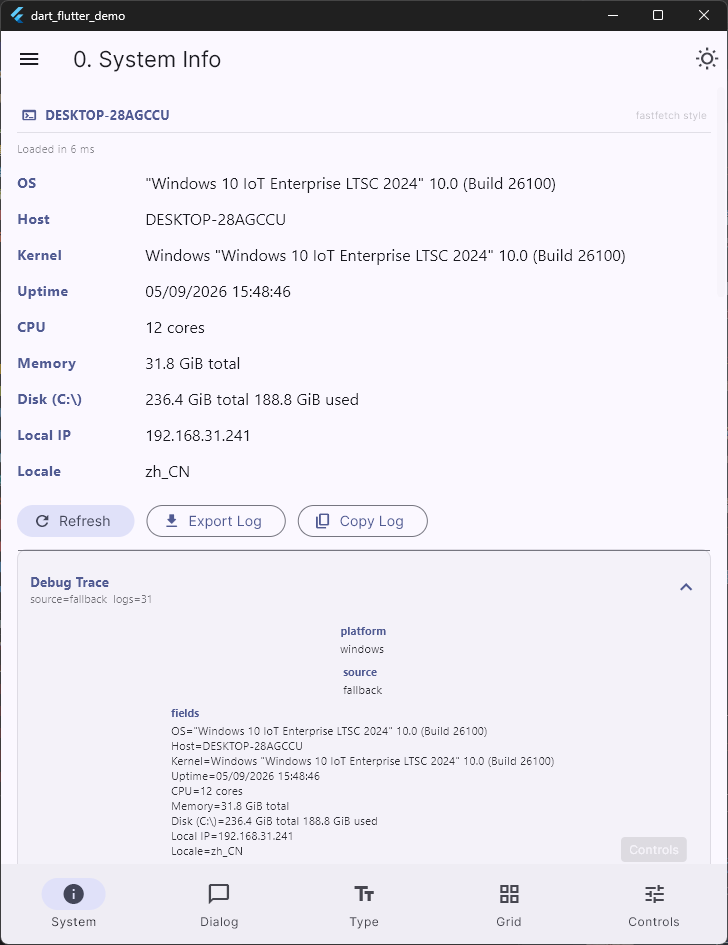
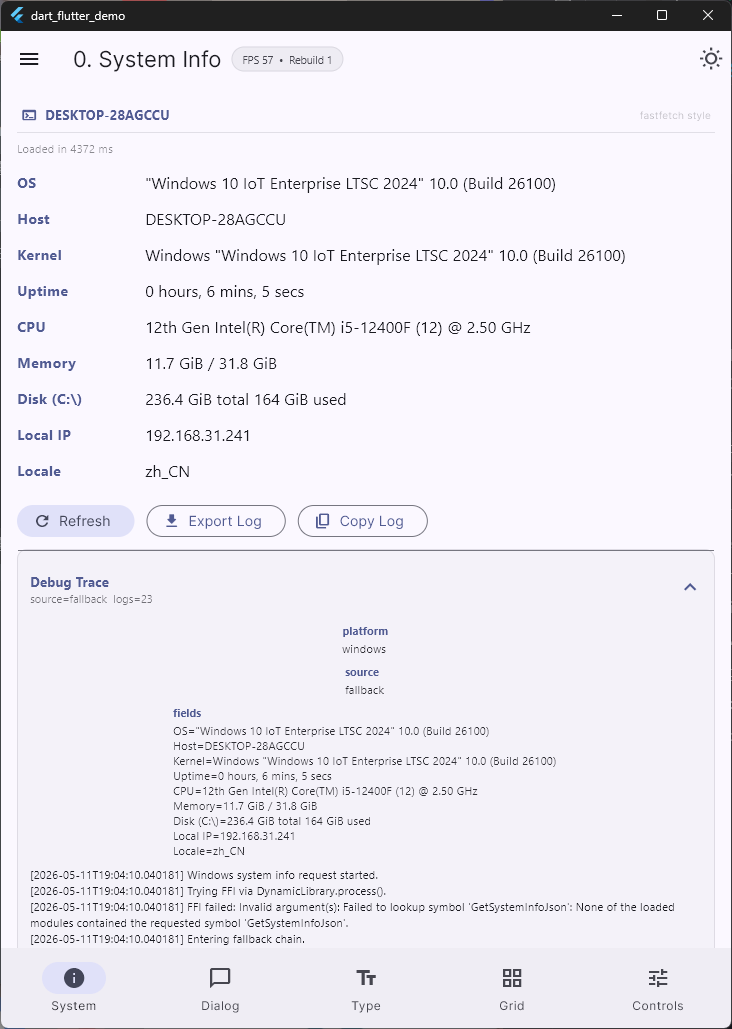
docs: add about and guide png in readme

diff --git a/README.md b/README.md
@@ -13,34 +13,46 @@ A cross-platform Flutter UI showcase PoC (Proof of Concept) app, available on An
 
 ## Pages
 
-### 0. System Info
+### 0. About
+
+An app information page that displays app name, version, build number, publisher, and related links. Serves as an entry point for app metadata and project information.
+Source: [lib/pages/page0_about.dart](https://github.com/VincentZyu233/dart-flutter-demo/blob/main/lib/pages/page0_about.dart)
+![about](doc/preview-pics/about.png)
+
+### 1. Getting Started Guide
+
+A step-by-step walkthrough showing the app's download channels, build options, and recommended development setup. Helps new users quickly understand how to obtain, build, and run the app across platforms.
+Source: [lib/pages/page1_guide.dart](https://github.com/VincentZyu233/dart-flutter-demo/blob/main/lib/pages/page1_guide.dart)
+![guide](doc/preview-pics/guide.png)
+
+### 2. System Info
 
 Displays system information through native C++ (Windows), Kotlin (Android), Swift (iOS), and dart:io fallbacks. Shows OS, hostname, kernel, uptime, CPU, memory, disk, and local IP. Includes built-in debug trace viewing plus copy/export actions for diagnostics.
-Source: [lib/pages/page0_system_info.dart](https://github.com/VincentZyu233/dart-flutter-demo/blob/main/lib/pages/page0_system_info.dart)
+Source: [lib/pages/page2_system_info.dart](https://github.com/VincentZyu233/dart-flutter-demo/blob/main/lib/pages/page2_system_info.dart)
 ![page0](doc/preview-pics/page0.png)
 
-### 1. Dialog Lab
+### 3. Dialog Lab
 
 A compact dialog lab with both a modern Flutter dialog and a classic Win32-style dialog recreation. Uses retro borders, inset input styling, and larger action buttons to demonstrate that Flutter can reproduce very different interaction and visual languages in one app.
-Source: [lib/pages/page1_dialog_lab.dart](https://github.com/VincentZyu233/dart-flutter-demo/blob/main/lib/pages/page1_dialog_lab.dart)
+Source: [lib/pages/page3_dialog_lab.dart](https://github.com/VincentZyu233/dart-flutter-demo/blob/main/lib/pages/page3_dialog_lab.dart)
 ![page1](doc/preview-pics/page1.png)
 
-### 2. Typography Studio
+### 4. Typography Studio
 
 An interactive text playground. Adjust font size, letter spacing, and line height with live controls. Switch between the system font, Google Fonts, and a one-shot local font file. Includes live preview text editing, dark/light auto text color switching, preset swatches, and a custom color picker with RGB and HEX readout.
-Source: [lib/pages/page2_typography_studio.dart](https://github.com/VincentZyu233/dart-flutter-demo/blob/main/lib/pages/page2_typography_studio.dart)
+Source: [lib/pages/page4_typography_studio.dart](https://github.com/VincentZyu233/dart-flutter-demo/blob/main/lib/pages/page4_typography_studio.dart)
 ![page2](doc/preview-pics/page2.png)
 
-### 3. Adaptive Grid
+### 5. Adaptive Grid
 
 A responsive GitHub repository browser driven by LayoutBuilder. Fetches repositories from configurable personal or organization repository pages, supports proxy configuration, filter and sort controls, collapsible configuration UI, layout switching between Grid / Masonry / List, and adjustable target columns from 5 to 1.
-Source: [lib/pages/page3_adaptive_grid.dart](https://github.com/VincentZyu233/dart-flutter-demo/blob/main/lib/pages/page3_adaptive_grid.dart)
+Source: [lib/pages/page5_adaptive_grid.dart](https://github.com/VincentZyu233/dart-flutter-demo/blob/main/lib/pages/page5_adaptive_grid.dart)
 ![page3](doc/preview-pics/page3.png)
 
-### 4. Controls & Feedback
+### 6. Controls & Feedback
 
 A compact lab for interactive controls and user feedback. Includes radios, checkboxes, switches, progress indicators, snack bars, and bottom sheets. Useful for checking state transitions, motion, and component responsiveness.
-Source: [lib/pages/page4_controls_feedback.dart](https://github.com/VincentZyu233/dart-flutter-demo/blob/main/lib/pages/page4_controls_feedback.dart)
+Source: [lib/pages/page6_controls_feedback.dart](https://github.com/VincentZyu233/dart-flutter-demo/blob/main/lib/pages/page6_controls_feedback.dart)
 ![page4](doc/preview-pics/page4.png)
 
 

diff --git a/README.zh-cn.md b/README.zh-cn.md
@@ -13,34 +13,46 @@
 
 ## 页面介绍
 
-### 0. 系统信息实验室
+### 0. 关于页面
+
+显示应用名称、版本号、构建号、发布方及相关链接的应用信息页。作为应用元数据和项目信息的入口页面。
+源码： [lib/pages/page0_about.dart](https://github.com/VincentZyu233/dart-flutter-demo/blob/main/lib/pages/page0_about.dart)
+![about](doc/preview-pics/about.png)
+
+### 1. 入门引导
+
+一步步指引展示应用的下载渠道、构建选项及推荐的开发环境配置。帮助新用户快速了解如何获取、构建并在各平台运行此应用。
+源码： [lib/pages/page1_guide.dart](https://github.com/VincentZyu233/dart-flutter-demo/blob/main/lib/pages/page1_guide.dart)
+![guide](doc/preview-pics/guide.png)
+
+### 2. 系统信息实验室
 
 通过原生 C++（Windows）、Kotlin（Android）、Swift（iOS）以及 dart:io fallback 获取系统信息。展示 OS、主机名、内核、运行时间、CPU、内存、磁盘和本地 IP。内置调试链路查看、复制与导出能力，便于诊断采集过程。
-源码： [lib/pages/page0_system_info.dart](https://github.com/VincentZyu233/dart-flutter-demo/blob/main/lib/pages/page0_system_info.dart)
+源码： [lib/pages/page2_system_info.dart](https://github.com/VincentZyu233/dart-flutter-demo/blob/main/lib/pages/page2_system_info.dart)
 ![page0](doc/preview-pics/page0.png)
 
-### 1. 对话框实验室
+### 3. 对话框实验室
 
 一个同时包含现代 Flutter 对话框与经典 Win32 风格对话框复刻的紧凑实验页。使用复古边框、内凹输入框样式和更大的操作按钮，展示 Flutter 可以在同一个应用里还原非常不同的交互与视觉语言。
-源码： [lib/pages/page1_dialog_lab.dart](https://github.com/VincentZyu233/dart-flutter-demo/blob/main/lib/pages/page1_dialog_lab.dart)
+源码： [lib/pages/page3_dialog_lab.dart](https://github.com/VincentZyu233/dart-flutter-demo/blob/main/lib/pages/page3_dialog_lab.dart)
 ![page1](doc/preview-pics/page1.png)
 
-### 2. 文字排版工作室
+### 4. 文字排版工作室
 
 一个交互式文字实验场。通过实时控件调整字号、字间距和行高。在系统字体、Google Fonts 和一次性本地字体文件之间切换。包含实时预览文本编辑、深浅色主题自动文字颜色切换、预设色板，以及带 RGB 与 HEX 读数的自定义颜色选择器。
-源码： [lib/pages/page2_typography_studio.dart](https://github.com/VincentZyu233/dart-flutter-demo/blob/main/lib/pages/page2_typography_studio.dart)
+源码： [lib/pages/page4_typography_studio.dart](https://github.com/VincentZyu233/dart-flutter-demo/blob/main/lib/pages/page4_typography_studio.dart)
 ![page2](doc/preview-pics/page2.png)
 
-### 3. 自适应网格
+### 5. 自适应网格
 
 一个由 LayoutBuilder 驱动的响应式 GitHub 仓库浏览页。可从可配置的个人或组织仓库页面抓取数据，支持代理设置、筛选与排序控件、可折叠配置区、Grid / Masonry / List 布局切换，以及从 5 到 1 的目标列数调整。
-源码： [lib/pages/page3_adaptive_grid.dart](https://github.com/VincentZyu233/dart-flutter-demo/blob/main/lib/pages/page3_adaptive_grid.dart)
+源码： [lib/pages/page5_adaptive_grid.dart](https://github.com/VincentZyu233/dart-flutter-demo/blob/main/lib/pages/page5_adaptive_grid.dart)
 ![page3](doc/preview-pics/page3.png)
 
-### 4. 控件与反馈实验室
+### 6. 控件与反馈实验室
 
 一个用于交互控件与反馈模式的紧凑实验页。包含单选框、多选框、开关、进度指示器、SnackBar 和 BottomSheet。适合检查状态切换、动效反馈与组件响应性。
-源码： [lib/pages/page4_controls_feedback.dart](https://github.com/VincentZyu233/dart-flutter-demo/blob/main/lib/pages/page4_controls_feedback.dart)
+源码： [lib/pages/page6_controls_feedback.dart](https://github.com/VincentZyu233/dart-flutter-demo/blob/main/lib/pages/page6_controls_feedback.dart)
 ![page4](doc/preview-pics/page4.png)
 
 